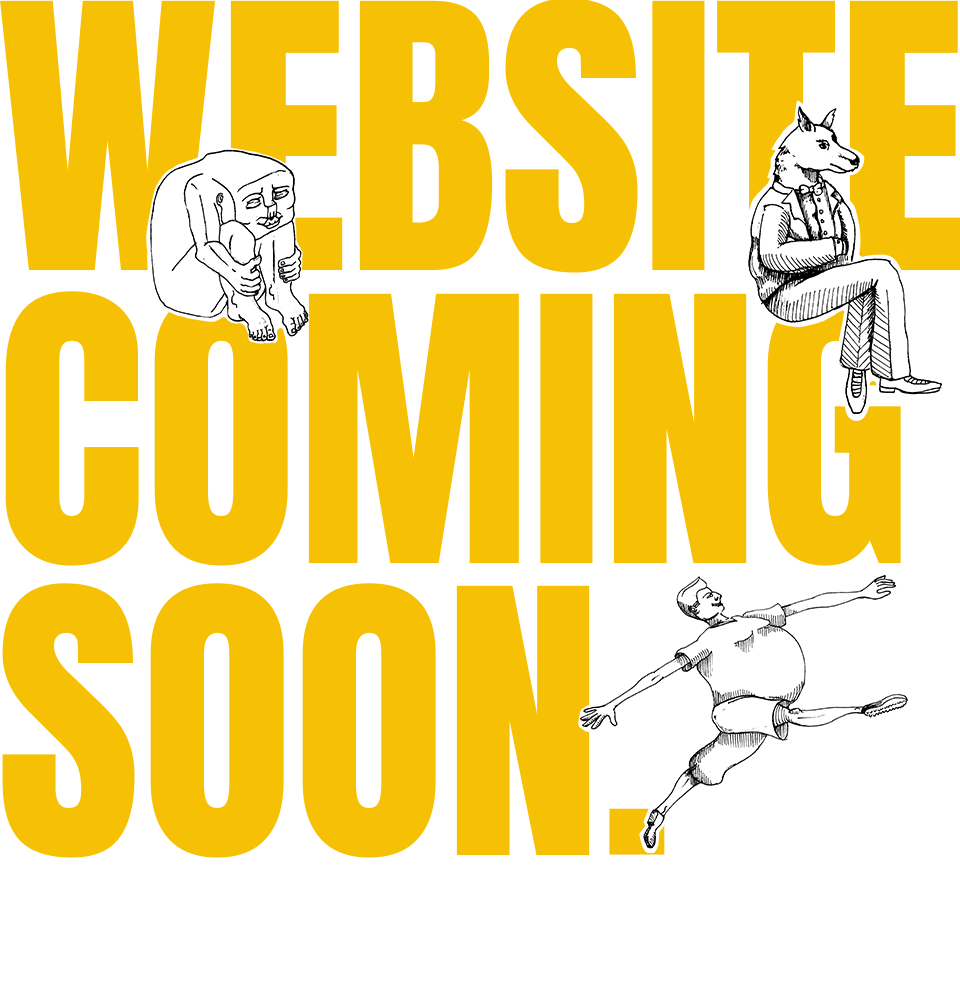
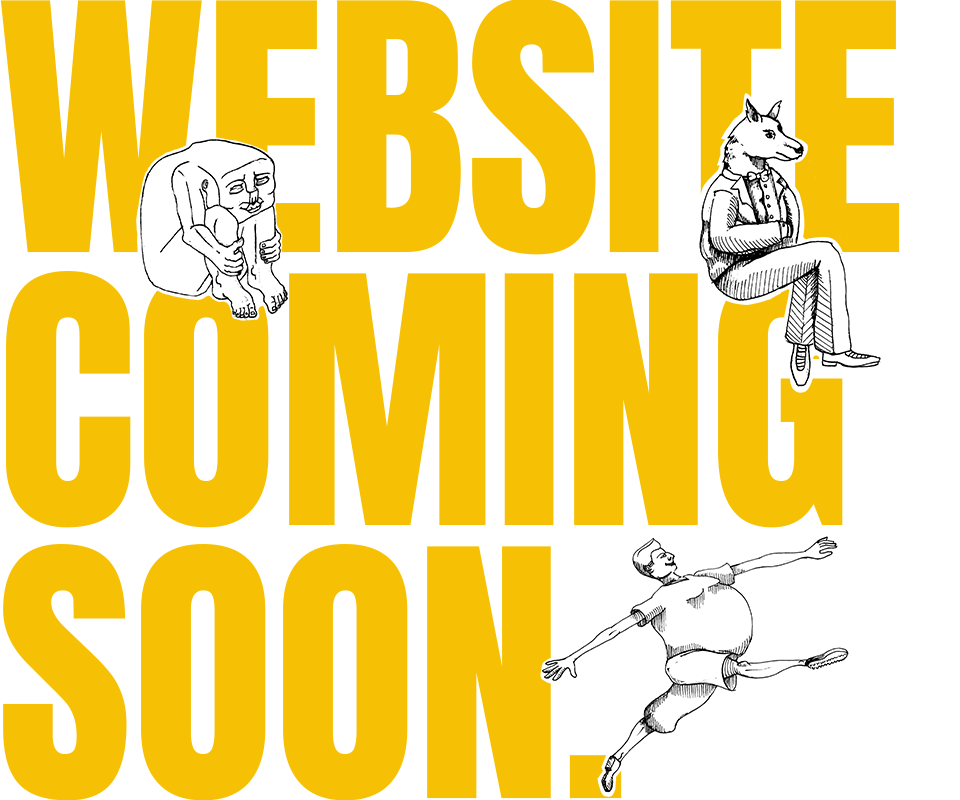
Change the image to be right size

diff --git a/index.html b/index.html
@@ -14,7 +14,7 @@
 </head>
 <body class="grid gutter">
 
-  <header class="relative pad-t unit xs-1 s-1 m-1-2 l-2-3">
+  <header class="relative pad-t unit xs-1 s-1 m-2-3 l-1-2">
     <div class="absolute">
       <img class="logo" src="assets/jk.png" alt="logo">
     </div>
@@ -22,19 +22,25 @@
     <div class="type-illustration">
       <img class="img-flex" src="assets/bg-4.png" alt="background-website-coming-soon">
     </div>
+  </header>
 
+  <main class="unit-m-2-3-content-distribute gutter-1-4 pad-t unit xs-1 s-1 m-2-3 l-1-2">
+    <div>
+      <p>Welcome to my page, my name is Jazmin. I am Motion Designer, Illustrator, Tae kwando green belt, International model, dancer, listener and storyteller.
+    </div>
+  </main>
+
+  <footer class="gutter-1-4 pad-t unit xs-1 s-1 m-1-2 l-1-2">
     <div class="inline">
       <a href="https://www.instagram.com/jazminkatz/">
         <img src="assets/iconmonstr-instagram-11.svg" alt="icon">
       </a>
-    </div>
 
-    <div class="gutter-1-2 inline">
-      <a href="https://ca.linkedin.com/in/jazmin-katz-32784318b">
+      <a class="gutter" href="https://ca.linkedin.com/in/jazmin-katz-32784318b">
         <img src="assets/iconmonstr-linkedin-3.svg" alt="icon">
       </a>
     </div>
-  </header>
+  </footer>
 
 </body>
 </html>

diff --git a/css/main.css b/css/main.css
@@ -14,3 +14,8 @@ html {
 .logo {
   width: 15%;
 }
+
+p {
+  font-family: 'Open Sans', sans-serif;
+  max-width: 21em;
+}
